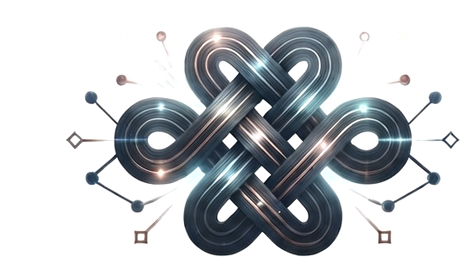
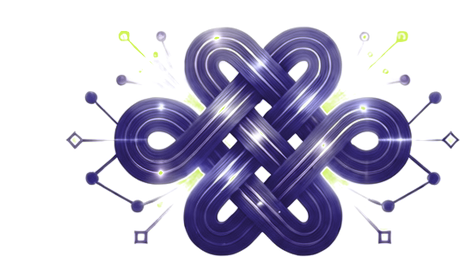
Логотип Koreec у заставці — у кольорах застосунку (фіолетовий + лайм)
Claude-Session: https://claude.ai/code/session_01XbGSLnFh4D3ZCf7WbtGLLi

diff --git a/recipes_app/lib/screens/splash_screen.dart b/recipes_app/lib/screens/splash_screen.dart
@@ -150,7 +150,7 @@ class _SplashFrame extends StatelessWidget {
       final u = _seg(v, .44, 1, (x) => x);
       final appIn = _seg(u, 0, .14), title = _seg(u, .40, .62), tag = _seg(u, .50, .72);
       final glowA = .30 * math.max(settle * (1 - dissolve * .6), appIn);
-      final glowC = move < .5 ? const Color(0xFF7FD3E0) : AppColors.lime;
+      final glowC = move < .5 ? AppColors.violet : AppColors.lime;
 
       return ColoredBox(
         color: bg,
@@ -290,7 +290,7 @@ class _TwinklePainter extends CustomPainter {
   final double v, twinkle;
 
   static const _pts = [[.12, .22], [.88, .18], [.06, .70], [.94, .74], [.30, .04], [.70, .96], [.5, .5]];
-  static const _tints = [Color(0xFFFFFFFF), Color(0xFF9FE6F0), Color(0xFFE8B48A)];
+  static const _tints = [Color(0xFFFFFFFF), AppColors.lime, Color(0xFFA99BFF)]; // кольори застосунку
 
   @override
   void paint(Canvas canvas, Size size) {
